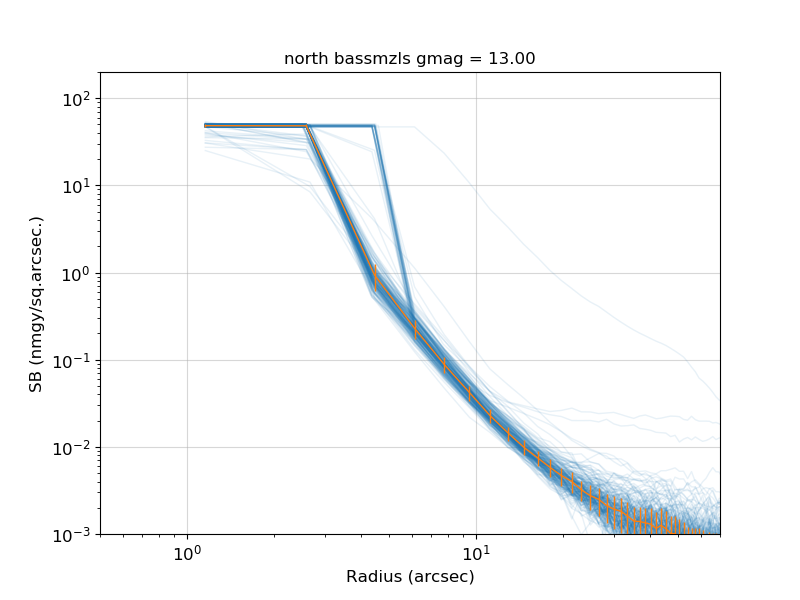
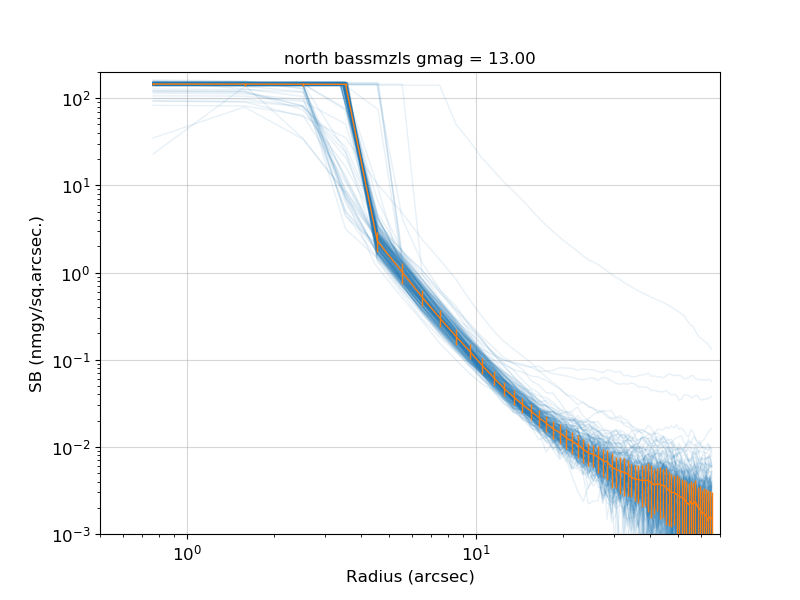
fix the incorrect profile normalization in the north

Changed region(s): [[0.1875, 0.12, 0.9062, 0.9]]

diff --git a/bright_star_profiles/compute_star_profiles.py b/bright_star_profiles/compute_star_profiles.py
@@ -177,11 +177,10 @@ from scipy.interpolate import interp1d
 transform_interp = {}
 for band in ['g', 'r', 'z']:
     if field=='north':
-        tmp = np.load('data/gaia_bassmzls_{}_transform.npz'.format(band))
+        tmp = Table.read('data/gaia_bassmzls_transform.txt', format='ascii.commented_header')
     else:
-        tmp = np.load('data/gaia_decals_{}_transform.npz'.format(band))
-    bin_center, bin_median, bin_scatter = tmp['arr_0'], tmp['arr_1'], tmp['arr_2']
-    transform_interp[band] = interp1d(bin_center, bin_median, bounds_error=False, fill_value='extrapolate', kind='linear')
+        tmp = Table.read('data/gaia_decals_transform.txt', format='ascii.commented_header')
+    transform_interp[band] = interp1d(tmp['bp_rp'], tmp['ls_'+band], bounds_error=False, fill_value='extrapolate', kind='linear')
     gaia['ls_'+band] = gaia['phot_g_mean_mag'] + transform_interp[band](gaia['bp_rp'])
 
 plt.figure(figsize=(15, 10))
@@ -198,12 +197,9 @@ plt.close()
 
 for band in ['g', 'r', 'z']:
 
-    if (field=='north') and ((band=='g') or (band=='r')):
-        pixscale_str = '0.454'
-        radius_binsize = 1.73
-    else:
-        pixscale_str = '0.262'
-        radius_binsize = 1.
+    # The native pixel size is 0.262 in both north and south in the cutouts
+    pixscale_str = '0.262'
+    radius_binsize = 1.
     pixscale = float(pixscale_str)
 
     radius_in_bin, flux_in_bin, flux_scatter_in_bin = [], [], []
@@ -358,7 +354,7 @@ for band in ['g', 'r', 'z']:
     plt.xlabel('Radius (arcsec)')
     plt.ylabel('SB (a.u.)')
     plt.legend()
-    plt.savefig('plots/{}_{}_{}mag_average_zoomin.png'.format(field, output_name, band))
+    plt.savefig('plots/more/{}_{}_{}mag_average_zoomin.png'.format(field, output_name, band))
     plt.close()
 
     ###################################################################################################
